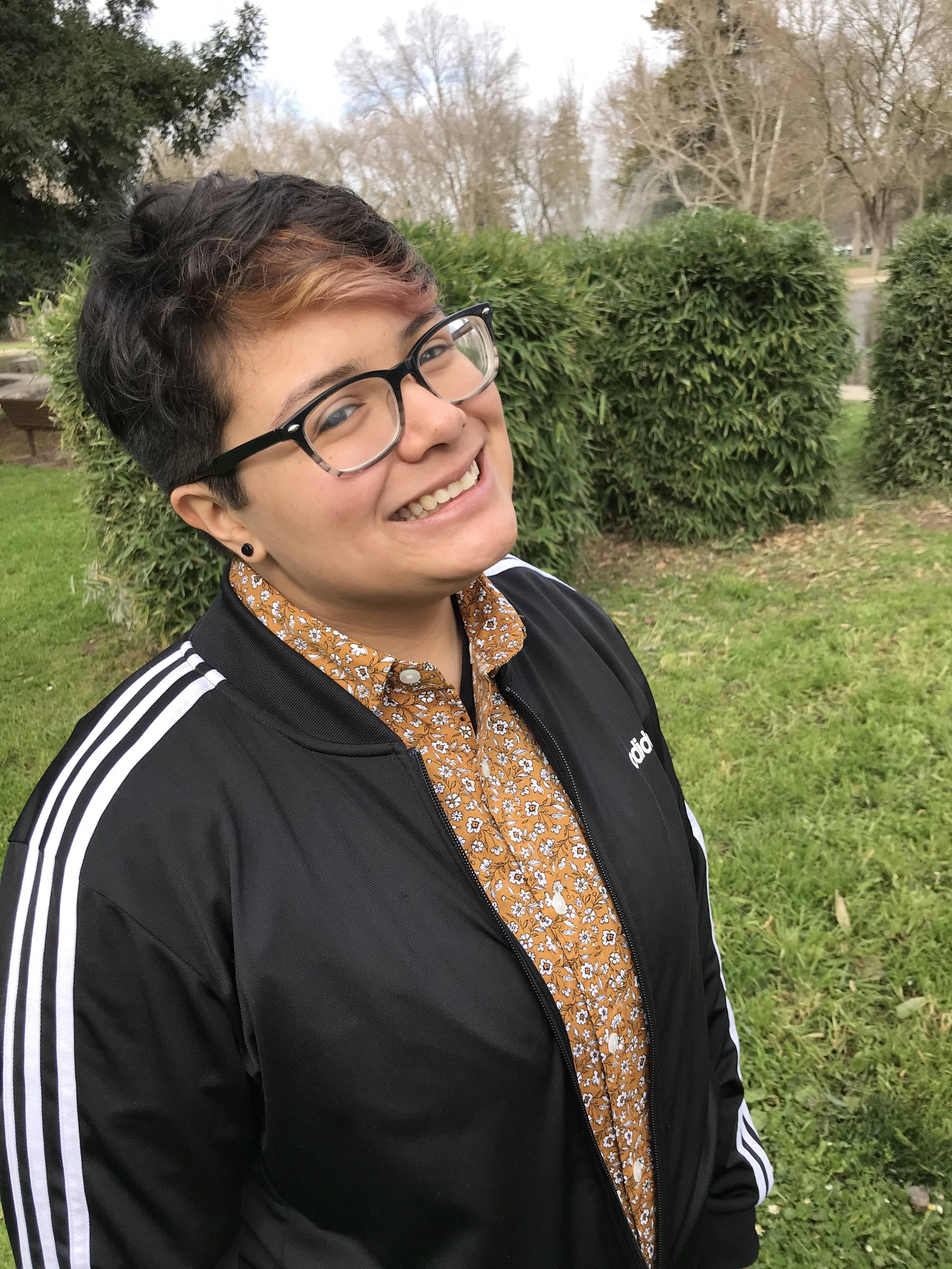
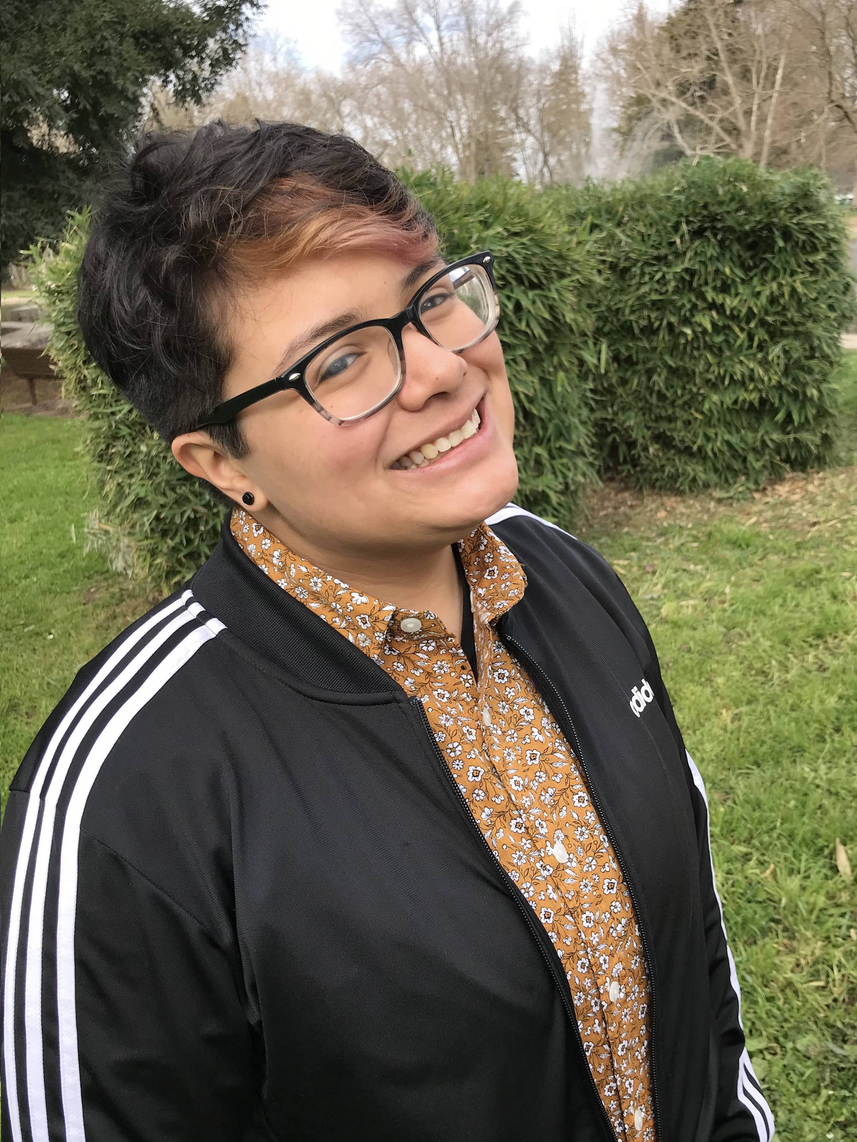
.

diff --git a/elections/index.html b/elections/index.html
@@ -426,7 +426,7 @@
 
           <div class="col-xl-4 col-lg-6">
             <div class="imgContainer" id="fundraising">
-              <img src="./nominees/missing.png" class="img-responsive">
+              <img src="./nominees/fundraising/fundraising.jpeg" class="img-responsive">
             </div>
             <h3>Arturo Maldonado</h3>
             <button type="button" class="btn btn-info btn btn-container" data-toggle="modal" data-target="#funraisingModal"><b>Fundraising</b></button>
